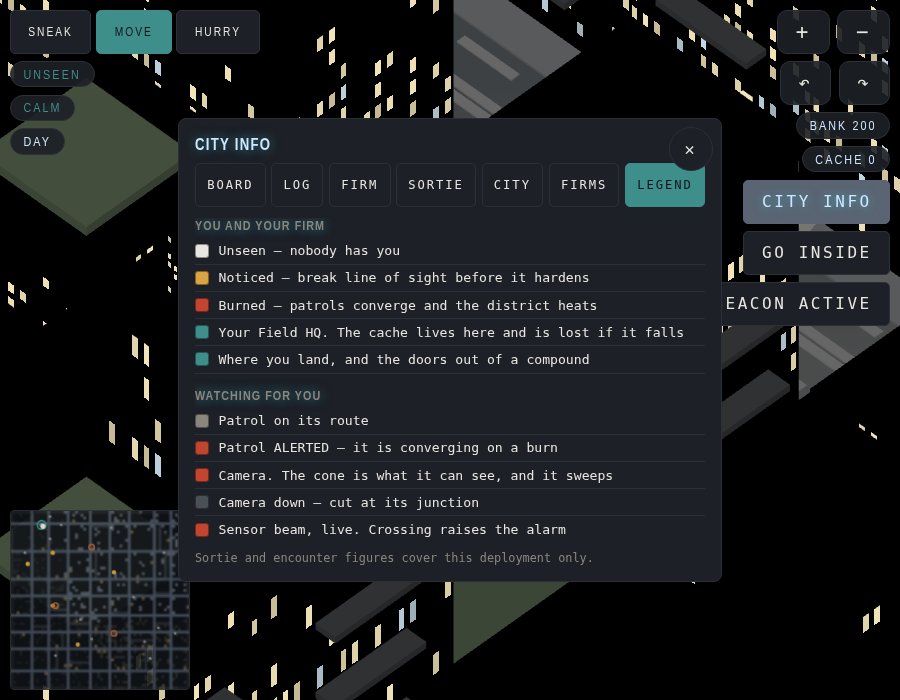
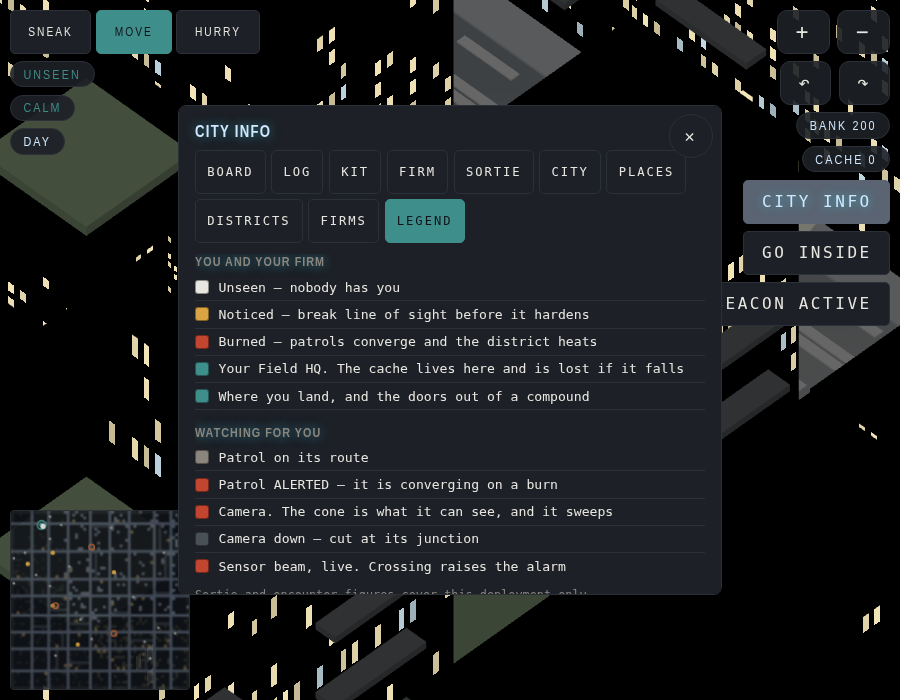
slice-CI-3: kit, places, districts, and your standing
Owner picked all four Q51 candidates plus "your rank, not theirs"; HISTORY needs
ledger fields and follows separately.

KIT exists because of a real gap, not because a tab was wanted: credentialTier
was not in the view AT ALL, so a badge bought from the vendor was invisible while
8f gated extraction and acquisition behind exactly that badge — you could cross
the map to a secured site with no way to know the job was possible. Open since
M8. Items are deliberately not listed: the engine has no inventory model, and a
panel inventing one would describe a game that does not exist.

PLACES is a directory of doors, nearest first, distance only — newly worth having
because Q50 took safehouses from 4 per city to 24. DISTRICTS is trait, heat band
(D20 intact), board offers there, and whether it holds your HQ or your people.
STANDING is a position and a count; no rival reputation crosses the wire.

I nearly shipped the season-splash defect again: the rank row's value is an
interpolated catalogue entry and cityRow took only (labelKey, value), so it would
have rendered "Standing of  Firms deployed" — t() fills missing args with empty
strings, so the failure is a hole, not a visible {0}.

The guard for it took three attempts and the first two were worse than nothing:
a unit test formatting rows with its own helper (green under mutation — it was
not reading the renderer), then a browser scan for {\d+} (green — wrong failure
[…]

diff --git a/client/js/models.js b/client/js/models.js
@@ -900,7 +900,7 @@ export function hoverCarsAt(tick, lanes, count) {
 
 // Ordered by how often a player reaches for them: the board is the mid-mission
 // tab and opens by default; the legend is reference and sits last.
-export const CITY_TABS = ["board", "log", "firm", "sortie", "city", "firms", "legend"];
+export const CITY_TABS = ["board", "log", "kit", "firm", "sortie", "city", "places", "districts", "firms", "legend"];
 
 // One row is [labelKey, value] or [labelKey, valueKey, ...args] for translated
 // values — the same shape `standingRows` uses, so the renderer stays one loop.
@@ -914,6 +914,12 @@ export function firmPanel(view, briefing) {
     // The cache is the tension arc (D7): earned this deployment, LOST if the HQ
     // falls. Showing it beside the bank is the whole point of the split.
     ["city.firm.cache", view?.hq?.cacheResources ?? 0],
+    // YOUR RANK, NOT THEIRS (owner-ruled). The engine sends a position and a
+    // count and nothing else — no rival's reputation crosses the wire, so the
+    // panel could not leak one if it wanted to.
+    view?.rank
+      ? ["city.firm.rank", "city.firm.rankValue", view.rank.position, view.rank.of]
+      : ["city.firm.rank", "city.firm.rankNone"],
   ];
 }
 
@@ -1033,3 +1039,94 @@ export function legendRows(marks) {
 export const LEGEND_STANCES = STANCES.map((s) => ({
   key: s.key, noteKey: `legend.stance.${s.key.split(".").pop()}`,
 }));
+
+// ── KIT, PLACES, DISTRICTS (owner-ruled 2026-08-30) ────────────────────────
+
+// WHAT THIS OPERATIVE IS CARRYING. The credential is the reason this tab
+// exists: `credentialTier` was not in the view at all, so a badge bought from
+// the vendor was invisible — and the 8f rule gates extraction and acquisition
+// behind exactly that badge. A player could cross the map to a secured site
+// with no way to know whether the job was even possible.
+//
+// Items are NOT listed, deliberately: the engine has no inventory model (items
+// are used by slot, never owned), and a panel inventing one would be describing
+// a game that does not exist.
+export const CARRY_KEYS = {
+  0: "kit.carry.nothing",
+  7: "kit.carry.areaAsset",
+};
+
+export function kitPanel(view, content) {
+  const agent = ownAgent(view);
+  const tier = view?.credentialTier | 0;
+  const disguise = disguiseFor(content, agent?.disguiseId ?? 0);
+  return [
+    ["kit.credential", tier > 0 ? "kit.credentialTier" : "kit.credentialNone", tier],
+    ["kit.disguise", disguise ? disguise.key : "kit.disguiseNone"],
+    ["kit.carrying", CARRY_KEYS[agent?.carryKind ?? 0] ?? "kit.carry.something"],
+    ["kit.stance", STANCES[agent?.stance ?? 1]?.key ?? "hud.stance.move"],
+    ["kit.condition", agent?.condition ?? 0],
+  ];
+}
+
+// A DIRECTORY OF DOORS, nearest first. Newly worth having: Q50 took safehouses
+// from four per city to twenty-four, so "where is the closest one" became a real
+// question rather than a rhetorical one.
+//
+// Distance only, no bearing (owner-ruled): enough to choose between two doors,
+// without the panel quietly taking over the radar's job.
+export function placesPanel(view) {
+  const agent = ownAgent(view);
+  const hx = agent ? Math.floor(agent.x / 256) : (view?.hq?.cellX ?? 0);
+  const hy = agent ? Math.floor(agent.y / 256) : (view?.hq?.cellY ?? 0);
+  return (view?.buildings ?? [])
+    .map((b) => ({
+      id: b.id,
+      role: buildingRole(b.kind),
+      labelKey: `places.${buildingRole(b.kind)}`,
+      cellX: b.cellX, cellY: b.cellY,
+      distance: Math.abs(b.cellX - hx) + Math.abs(b.cellY - hy),
+    }))
+    .sort((a, b) => a.distance - b.distance || a.id - b.id);
+}
+
+// TRAIT_KEYS already exists above (the drop-zone picker uses it). A second
+// copy is how the tile palette ended up in three places — one table.
+
+// One row per district: what it is, how hot, and what it holds FOR YOU. Heat
+// follows D20 — the band always, the exact number only where intel was bought,
+// which `view.districts` has already decided.
+export function districtsPanel(view) {
+  const held = new Set();
+  for (const h of view?.holdingSites ?? []) {
+    if ((h.heldOwn ?? []).length) held.add(`${h.cellX},${h.cellY}`);
+  }
+  const hqAt = view?.hq ? `${view.hq.cellX},${view.hq.cellY}` : null;
+  const nearest = (cx, cy) => {
+    // Districts are reported by their CORE, so "which district is this cell in"
+    // is answered the same way districtUnder does it — one rule, not two.
+    const d = districtUnder(view, cx, cy);
+    return d ? d.id : -1;
+  };
+  return (view?.districts ?? []).map((d) => {
+    const offers = (view?.board?.contracts ?? []).filter((c) => {
+      const site = (view.sites ?? []).find((s) => s.id === c.siteId);
+      return site && nearest(site.cellX, site.cellY) === d.id;
+    }).length;
+    let holds = 0;
+    for (const key of held) {
+      const [x, y] = key.split(",").map(Number);
+      if (nearest(x, y) === d.id) holds++;
+    }
+    return {
+      id: d.id,
+      traitKey: TRAIT_KEYS[d.trait] ?? "trait.industrial",
+      heatBand: d.heatBand | 0,
+      heatKey: HEAT_KEYS[d.heatBand | 0] ?? HEAT_KEYS[0],
+      heatExact: d.heat >= 0 ? d.heat : null,
+      offers,
+      hasHq: !!hqAt && nearest(view.hq.cellX, view.hq.cellY) === d.id,
+      holdsYours: holds > 0,
+    };
+  });
+}

diff --git a/test/client.test.js b/test/client.test.js
@@ -385,6 +385,81 @@ test("PLAYTEST 13: the compound camera clamps per-axis, not against one size", a
   assert.deepEqual(clampCamera({ x: 6, y: 9 }, 64, 17, 11), { x: 17, y: 11 });
 });
 
+test("CITY INFO: kit, places and districts RENDER as text, not as placeholders", async () => {
+  // The defect this exists for: a row whose value is an INTERPOLATED catalogue
+  // entry, rendered without its args, prints "{0} of {1} Firms deployed"
+  // verbatim. The season splash shipped exactly that as "DAY  OF ....... 0/28"
+  // — the data was right and the text was gibberish, and every unit test on the
+  // data passed. So this asserts the rendered STRING.
+  const { kitPanel, placesPanel, districtsPanel, firmPanel } =
+    await import("../client/js/models.js");
+  const render = (catalog, rows) => rows.map(([k, v, ...args]) => {
+    const tr = (key, ...a) => (catalog[key] ?? key)
+      .replace(/\{(\d+)\}/g, (_, i) => a[Number(i)] ?? "");
+    const value = typeof v === "string" && v.includes(".") ? tr(v, ...args) : String(v);
+    return `${tr(k)}: ${value}`;
+  });
+
+  const view = {
+    tick: 50, bank: 100, credentialTier: 2,
+    rank: { position: 3, of: 5 },
+    hq: { cellX: 10, cellY: 10, cacheResources: 40, evacActive: 0 },
+    agents: [{ id: 0, state: 1, x: 10 * 256, y: 10 * 256, detection: 0,
+      disguiseId: 0, carryKind: 7, stance: 0, condition: 80 }],
+    buildings: [
+      { id: 1, kind: 0, cellX: 12, cellY: 10 },
+      { id: 2, kind: 2, cellX: 40, cellY: 40 },
+      { id: 3, kind: 1, cellX: 10, cellY: 14 },
+    ],
+    districts: [{ id: 0, trait: 1, coreX: 10, coreY: 10, heatBand: 1, heat: -1 },
+      { id: 1, trait: 0, coreX: 50, coreY: 50, heatBand: 2, heat: 4 }],
+    sites: [{ id: 9, cellX: 11, cellY: 11 }],
+    board: { contracts: [{ id: 1, siteId: 9 }] },
+    holdingSites: [],
+  };
+
+  for (const [loc, catalog] of [["en", EN], ["no", NO]]) {
+    const lines = [
+      ...render(catalog, kitPanel(view, null)),
+      ...render(catalog, firmPanel(view, { ledger: { reputation: 5 } })),
+    ];
+    for (const line of lines) {
+      assert.ok(!/\{\d+\}/.test(line), `${loc}: "${line}" left a placeholder unfilled`);
+      assert.ok(!/:\s*$/.test(line), `${loc}: "${line}" rendered an empty value`);
+      assert.ok(!/\b[a-z]+\.[a-z]/i.test(line.split(": ")[1] ?? ""),
+        `${loc}: "${line}" printed a raw i18n key as its value`);
+    }
+    // The rank row must carry BOTH numbers — that is the whole content.
+    const rank = lines.find((l) => l.startsWith(catalog["city.firm.rank"]));
+    assert.ok(rank.includes("3") && rank.includes("5"), `${loc}: rank lost its numbers: ${rank}`);
+  }
+
+  // KIT: a held credential must READ as held. This is the gap the tab exists
+  // for — the tier was not in the view at all, so a badge you paid for was
+  // invisible while 8f gated the work behind it.
+  const withBadge = Object.fromEntries(kitPanel(view, null).map(([k, v]) => [k, v]));
+  assert.equal(withBadge["kit.credential"], "kit.credentialTier");
+  const noBadge = Object.fromEntries(
+    kitPanel({ ...view, credentialTier: 0 }, null).map(([k, v]) => [k, v]));
+  assert.equal(noBadge["kit.credential"], "kit.credentialNone",
+    "no credential must say so — 'secured work is closed to you' is the point");
+
+  // PLACES: nearest first, and distances are real walking distance.
+  const places = placesPanel(view);
+  assert.equal(places[0].id, 1, "places are not sorted nearest-first");
+  assert.equal(places[0].distance, 2);
+  assert.ok(places[places.length - 1].distance > places[0].distance);
+
+  // DISTRICTS: D20 holds — the band always, the exact number only where the
+  // view already decided intel was bought.
+  const districts = districtsPanel(view);
+  assert.equal(districts.length, 2);
+  assert.equal(districts[0].heatExact, null, "exact heat leaked without intel");
+  assert.equal(districts[1].heatExact, 4, "bought heat intel did not reach the panel");
+  assert.equal(districts[0].hasHq, true, "the district holding your HQ should say so");
+  assert.equal(districts[0].offers, 1, "a board offer in this district was not counted");
+});
+
 test("LEGEND: every mark is either explained or explicitly excluded", async () => {
   // A legend is a hand-kept list pretending to be documentation, and this
   // project has been bitten by exactly that: SPOKEN_LINES fell silently out of

diff --git a/client/js/main.js b/client/js/main.js
@@ -14,6 +14,7 @@ import {
   payloadForBuilding, overlayRows, disguiseFor, districtChoices, standingRows, missionBanner,
   journalLine, gameClock, evacAvailable, SPOKEN_LINES,
   CITY_TABS, firmPanel, sortiePanel, cityPanel, firmsPanel, firmName,
+  kitPanel, placesPanel, districtsPanel,
   legendRows, LEGEND_STANCES,
   cuttableJunction, liftableGuard, dropshipFlight, DROPSHIP_MS, MAX_PINS,
   beginMission, areaView, areaActions, captureSituation,
@@ -405,16 +406,20 @@ function noteFirmsSeen(view) {
   if (view?.standoff && view.standoff.rivalFirmId >= 0) notedFirms.add(view.standoff.rivalFirmId);
 }
 
-function cityRow(labelKey, value) {
+function cityRow(labelKey, value, ...args) {
   const li = document.createElement("li");
   const k = document.createElement("span");
   k.textContent = t(labelKey);
   const v = document.createElement("span");
   v.className = "val";
-  // A row value may be an i18n KEY (status words) or a plain number/string.
-  // Interpolated catalogue entries used as labels are how the season splash
-  // once rendered "DAY OF ....... 0 / 28", so the check is explicit.
-  v.textContent = typeof value === "string" && value.includes(".") ? t(value) : String(value);
+  // A row value may be an i18n KEY (status words, some of them INTERPOLATED)
+  // or a plain number/string. The args matter: rendering "city.firm.rankValue"
+  // without them prints "{0} of {1} Firms deployed" verbatim, which is exactly
+  // how the season splash once shipped "DAY  OF ....... 0 / 28" — data right,
+  // text gibberish, every unit test green.
+  v.textContent = typeof value === "string" && value.includes(".")
+    ? t(value, ...args)
+    : String(value);
   li.append(k, v);
   return li;
 }
@@ -477,6 +482,7 @@ function renderCityInfo() {
     firm: () => firmPanel(view, session.briefing),
     sortie: () => sortiePanel(view, journal),
     city: () => cityPanel(view, session.briefing),
+    kit: () => kitPanel(view, session.content),
   };
 
   const tabs = $("#city-tabs");
@@ -514,7 +520,48 @@ function renderCityInfo() {
   list.className = "city-rows";
 
   if (rows[cityTab]) {
-    for (const [labelKey, value] of rows[cityTab]()) list.appendChild(cityRow(labelKey, value));
+    for (const [labelKey, value, ...args] of rows[cityTab]()) {
+      list.appendChild(cityRow(labelKey, value, ...args));
+    }
+  } else if (cityTab === "places") {
+    const places = placesPanel(view);
+    if (!places.length) list.appendChild(cityRow("places.none", ""));
+    for (const p of places) {
+      const li = document.createElement("li");
+      const left = document.createElement("span");
+      left.textContent = `${t(p.labelKey)} · ${p.cellX},${p.cellY}`;
+      const right = document.createElement("span");
+      right.className = "val";
+      right.textContent = t("places.cells", p.distance);
+      li.append(left, right);
+      list.appendChild(li);
+    }
+  } else if (cityTab === "districts") {
+    const districts = districtsPanel(view);
+    if (!districts.length) list.appendChild(cityRow("districts.none", ""));
+    for (const d of districts) {
+      const li = document.createElement("li");
+      const left = document.createElement("div");
+      const name = document.createElement("div");
+      name.className = "firm-name";
+      name.textContent = t(d.traitKey);
+      const meta = document.createElement("div");
+      meta.className = "opt-note";
+      // D20: the band always, the exact number only where intel was bought —
+      // the view has already decided that, so the panel just reports it.
+      const heat = d.heatExact === null
+        ? t(d.heatKey)
+        : `${t(d.heatKey)} (${t("districts.heat")} ${d.heatExact})`;
+      meta.textContent = [
+        heat,
+        t("districts.offers", d.offers),
+        ...(d.hasHq ? [t("districts.yourHq")] : []),
+        ...(d.holdsYours ? [t("districts.holdsYours")] : []),
+      ].join(" · ");
+      left.append(name, meta);
+      li.appendChild(left);
+      list.appendChild(li);
+    }
   } else if (cityTab === "firms") {
     const firms = firmsPanel(view, notedFirms);
     if (!firms.length) {

diff --git a/engine/view.js b/engine/view.js
@@ -20,6 +20,7 @@ import { beamLiveAt } from "./sensors.js";
 import { worldToCellFloor } from "../shared/fixedmath.js";
 import { lightPhase, ticksUntilNight } from "./season.js";
 import { occupantsOf, areaGridFor, areaTemplateFor, areaEntryDoors } from "./areas.js";
+import { credentialTier } from "./access.js";
 
 const SIGHT = 10;          // what your own agent can make out, in cells
 
@@ -36,6 +37,10 @@ export function buildView(state, firmId, detCfg) {
   if (hq) eyes.push({ x: hq.cellX, y: hq.cellY });
 
   const visible = (cx, cy) => eyes.some((e) => within(e.x, e.y, cx, cy, SIGHT));
+  // The operative in the field, hoisted: several blocks below want it, and the
+  // credential row needs it before any of them run.
+  const leadAgent = own.find((a) => a.state === AGENT_ACTIVE)
+    ?? own.find((a) => a.state === AGENT_INSIDE) ?? null;
 
   const phase = lightPhase(state.tick, state.rules?.season?.dayNight);
 
@@ -51,6 +56,28 @@ export function buildView(state, firmId, detCfg) {
     // WD-2: how long until dark, engine-computed (season.js is the single
     // home of the cycle maths) — the waiting overlay's countdown reads this.
     ticksUntilNight: ticksUntilNight(state.tick, state.rules?.season?.dayNight),
+    // CI-3: WHAT THIS OPERATIVE IS CARRYING. The credential tier was not in the
+    // view at all — you could buy a tier-2 badge from the vendor and nothing
+    // anywhere told you that you held it, while the 8f rule gates extraction
+    // and acquisition behind exactly that badge. So a player could walk across
+    // the map to a secured site with no way to know whether the job was
+    // possible. Paying for something invisible is a defect this project has
+    // shipped more than once.
+    credentialTier: leadAgent ? credentialTier(state, leadAgent.id) : 0,
+
+    // CI-3: YOUR RANK, NOT THEIRS (owner-ruled). Position by reputation among
+    // the Firms currently deployed, ties broken by id so it is deterministic.
+    // The other Firms' numbers do NOT cross the wire — D18 keeps rival progress
+    // private, and "3rd of 5" says where you stand without saying whose.
+    rank: (() => {
+      const live = state.firms.filter((f) => f.state !== 0);
+      if (!live.length) return null;
+      const sorted = [...live].sort((a, b) =>
+        (b.reputation | 0) - (a.reputation | 0) || a.id - b.id);
+      const at = sorted.findIndex((f) => f.id === firmId);
+      return at < 0 ? null : { position: at + 1, of: sorted.length };
+    })(),
+
     // Q48: what bringing in a replacement costs in standing. From the ruleset,
     // so the capture overlay quotes the price the reducer will actually charge
     // rather than restating it — the bailQuote lesson, applied up front.
